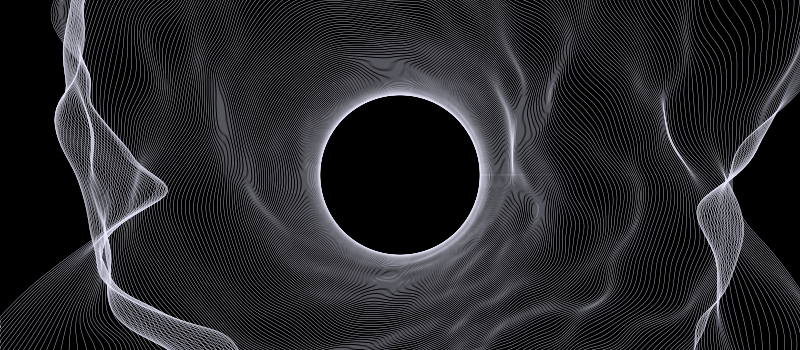
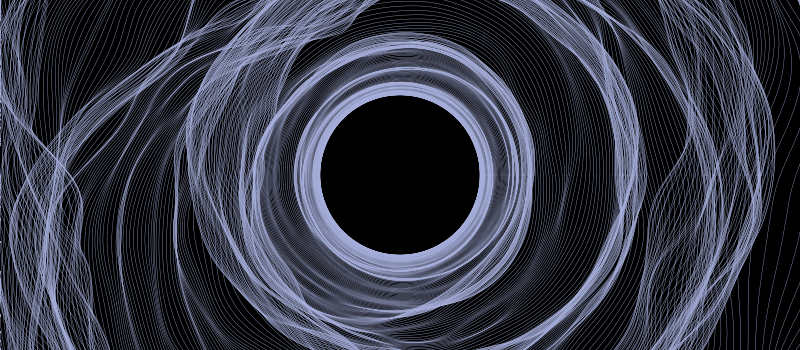
:sparkles: add more randomness to the image

diff --git a/src/main.go b/src/main.go
@@ -17,7 +17,6 @@ func main() {
 	stats := getStats()
 	hash := GetMD5Hash(stats)
 	rand.Seed(int64(hash - 9223372036854775808))
-
 	generateImage()
 }
 
@@ -49,36 +48,20 @@ func GetMD5Hash(text string) uint64 {
 func generateImage() {
 	c := generativeart.NewCanva(800, 350)
 	setCanvaOptions(c, OptionsOverride{
-		Background:  common.Black,
-		Foreground:  common.LightPink,
-		LineColor:   common.Lavender,
-		LineWidth:   3,
-		ColorSchema: []color.RGBA{common.Bisque, common.Mintcream},
-		NIters:      20,
-		Alpha:       255,
+		Background: common.Black,
+		LineColor:  color.RGBA{165, 174, 217, 255},
 	})
-
 	c.FillBackground()
-	c.Draw(arts.NewBlackHole(200, 900, 0.01))
+	c.Draw(arts.NewBlackHole(rand.Intn(800-100)+100, 900, 0.005+rand.Float64()*(.04-0.005)))
 	c.ToPNG("../.repo/profilehash.png")
 }
 
 type OptionsOverride struct {
-	Background  color.RGBA
-	Foreground  color.RGBA
-	LineColor   color.RGBA
-	LineWidth   float64
-	ColorSchema []color.RGBA
-	NIters      int
-	Alpha       int
+	Background color.RGBA
+	LineColor  color.RGBA
 }
 
 func setCanvaOptions(c *generativeart.Canva, options OptionsOverride) {
 	c.SetBackground(options.Background)
-	c.SetForeground(options.Foreground)
 	c.SetLineColor(options.LineColor)
-	c.SetLineWidth(options.LineWidth)
-	c.SetColorSchema(options.ColorSchema)
-	c.SetIterations(options.NIters)
-	c.SetAlpha(options.Alpha)
 }
